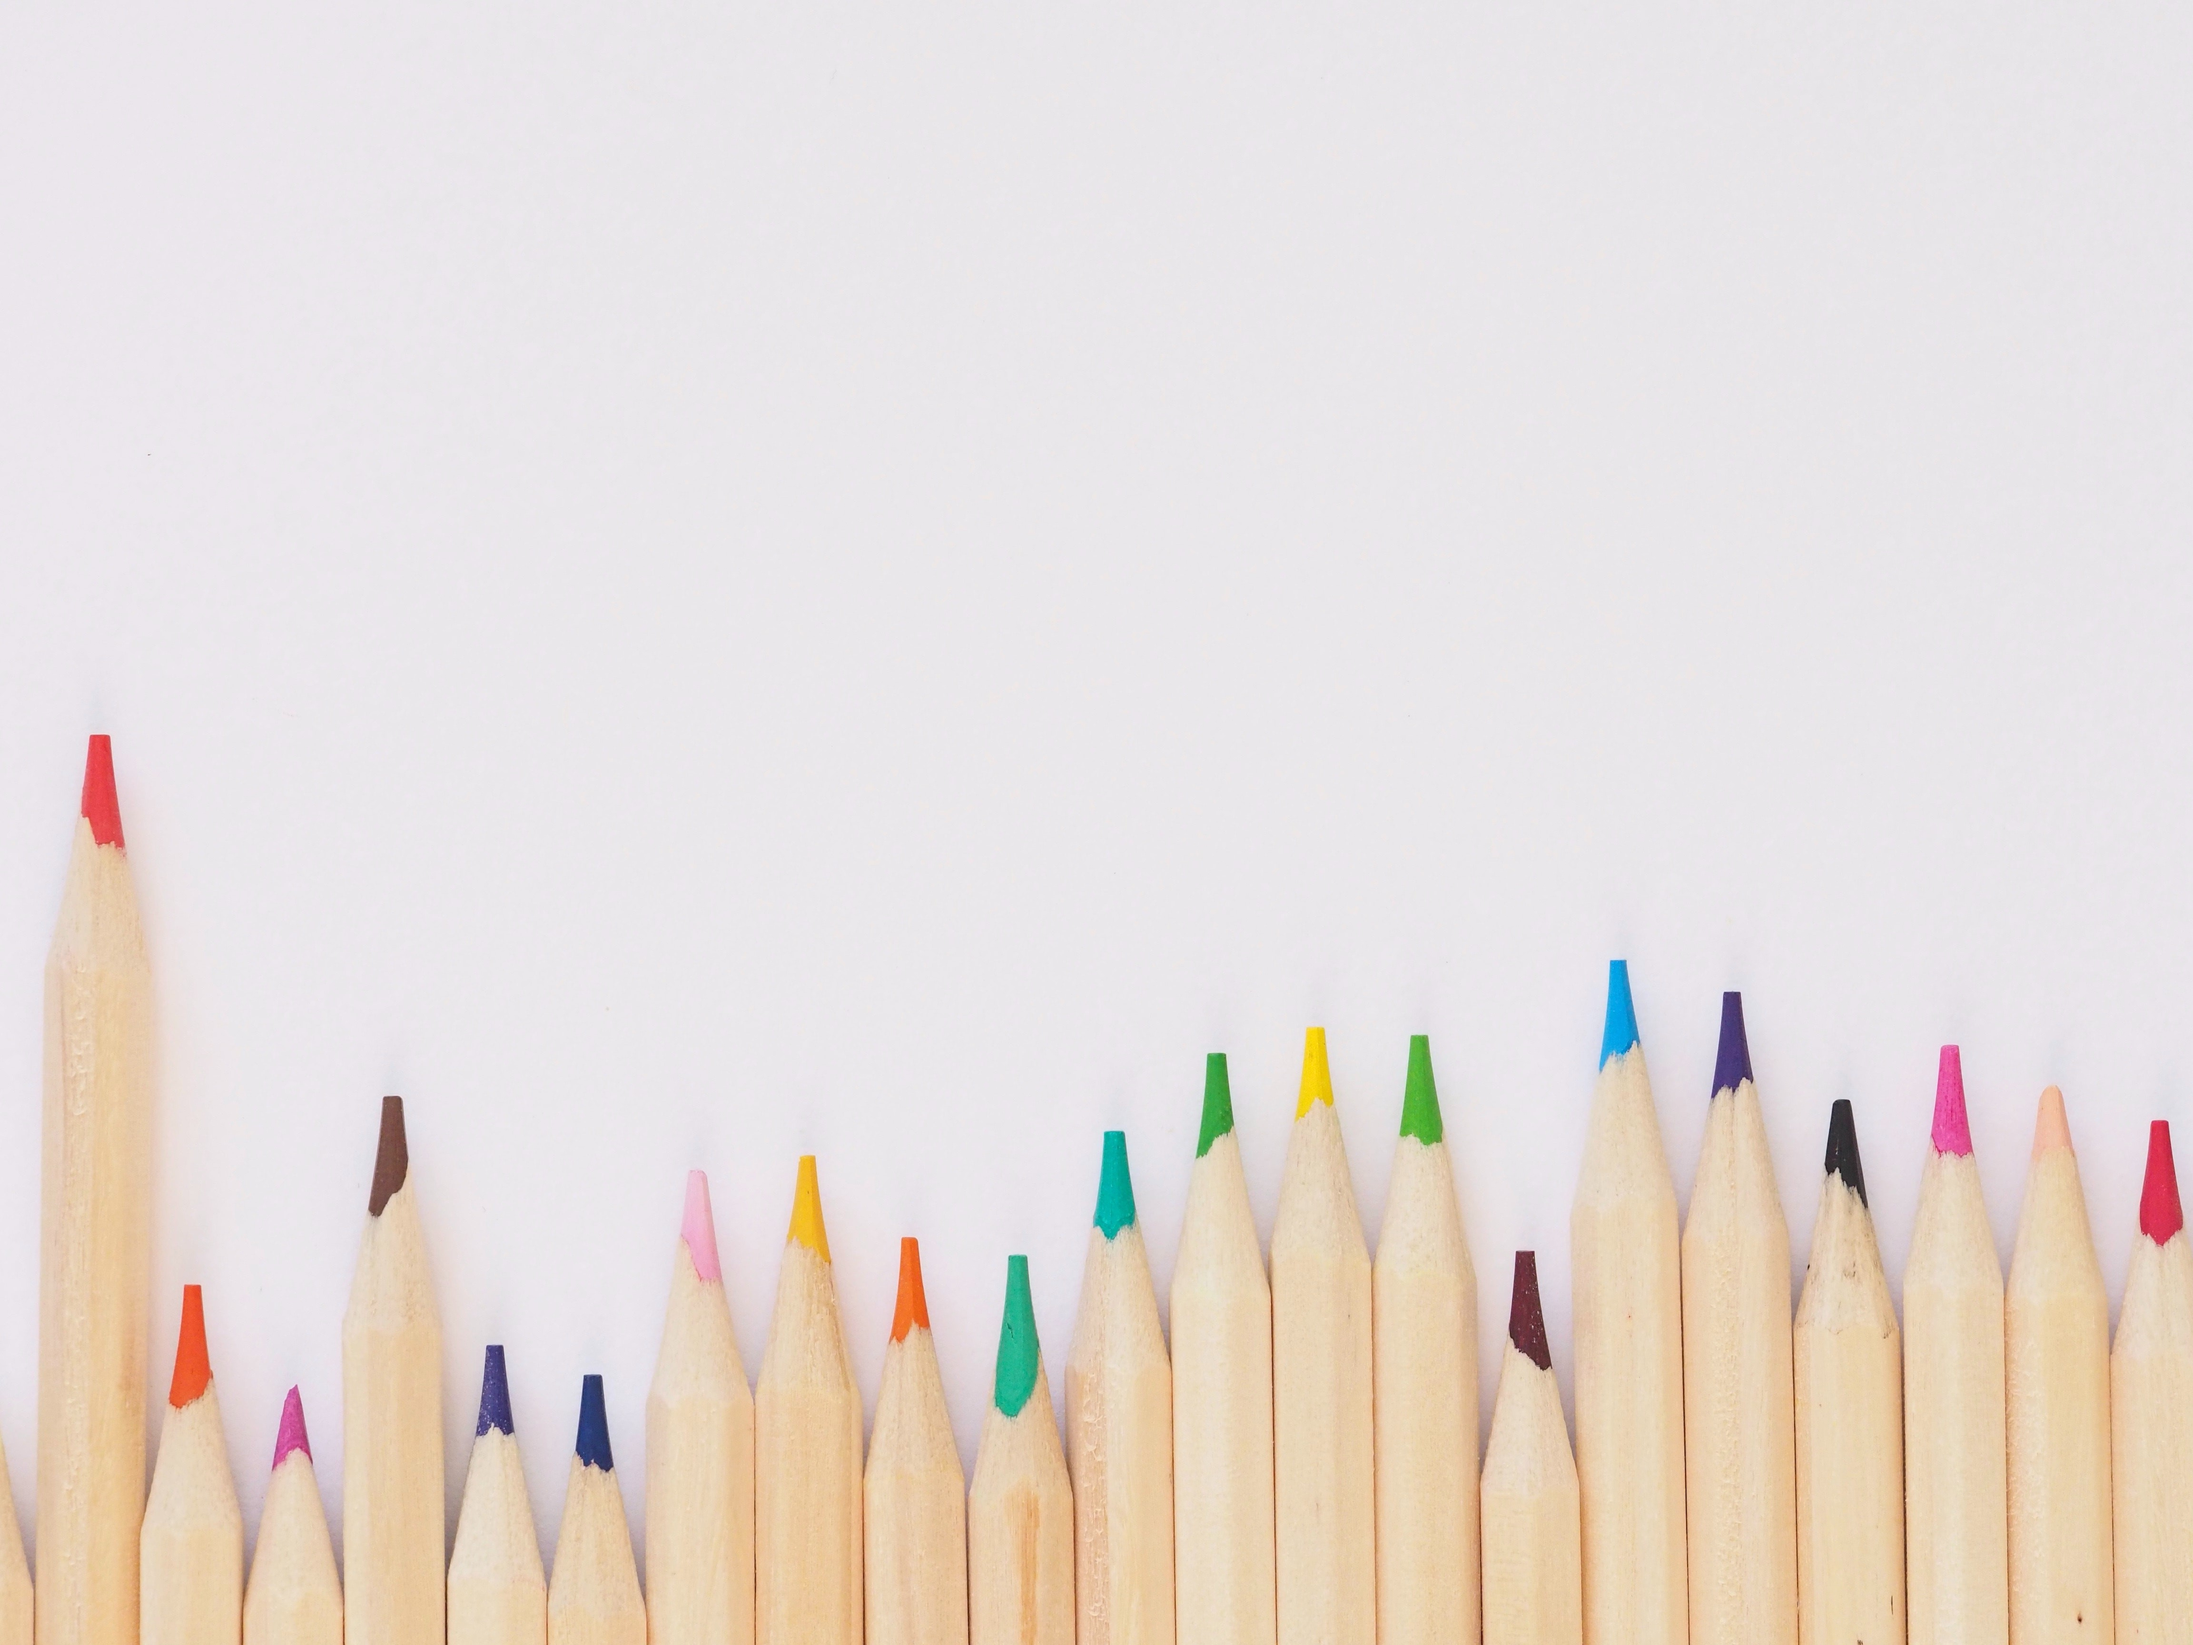
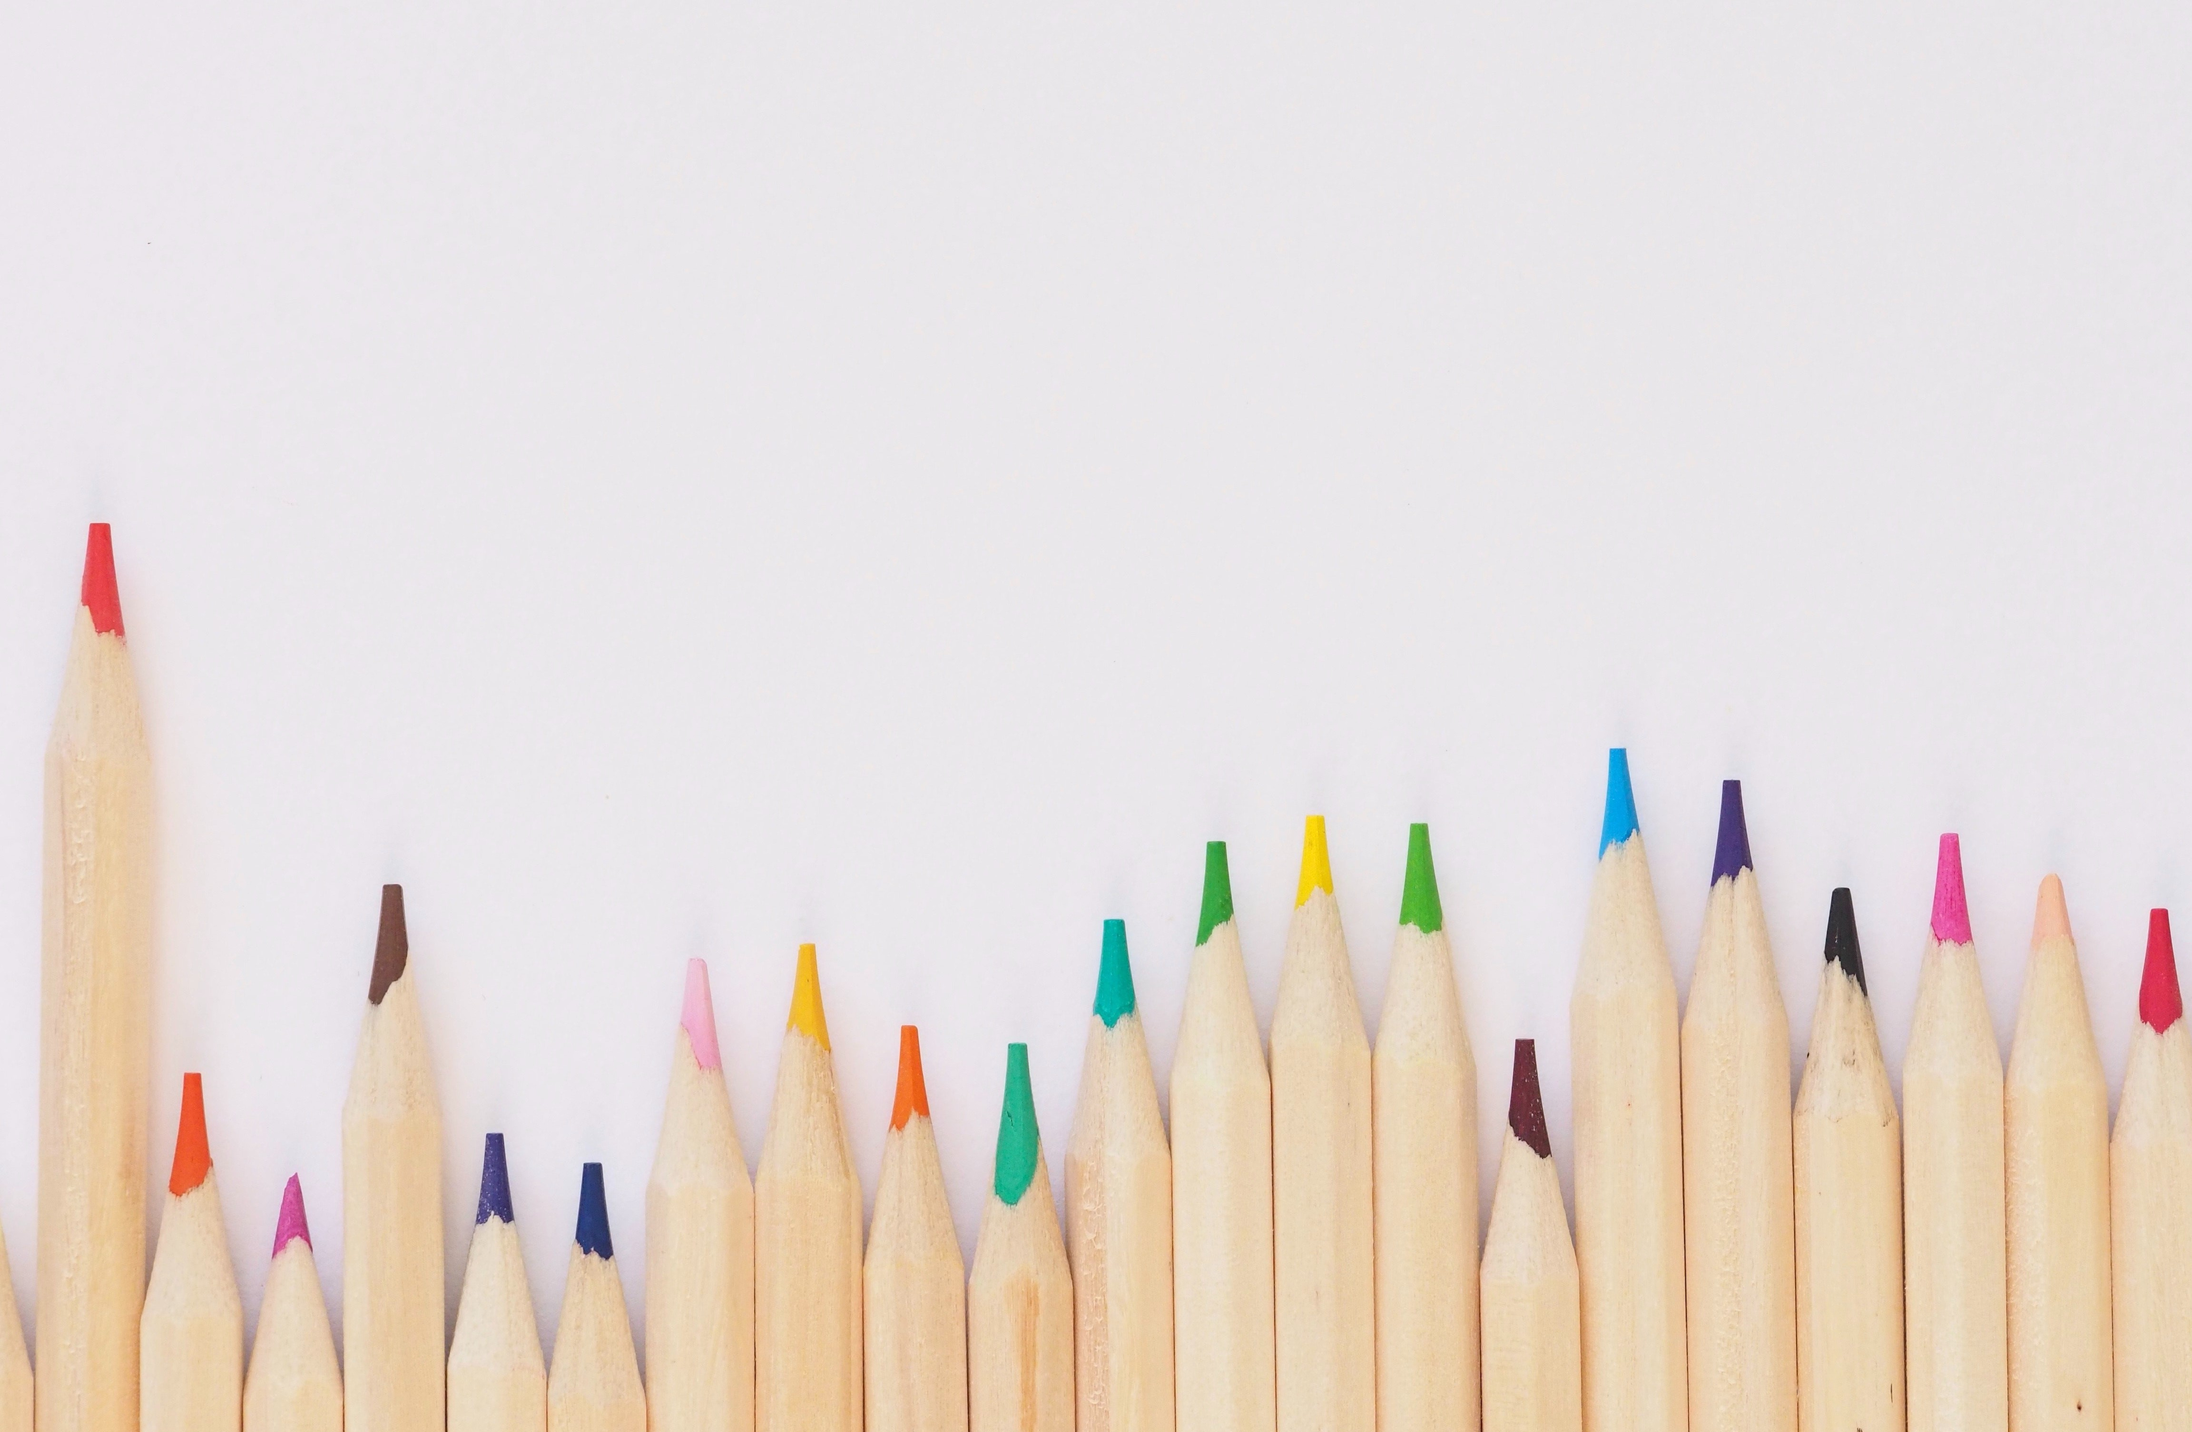
Finalização da seção sobre

diff --git a/Fase 01 - Web (Front End)/index.html b/Fase 01 - Web (Front End)/index.html
@@ -70,33 +70,69 @@
 				</div>
         
             </nav>
-
+            
         </header>
-
-        <!-- Hero -->
-        <section id="hero-principal">
-            <div class="container">
-                <div class="row">
-                    <div class="col-sm-4">
-                        <h1 class="titulo-principal">Todas as escolas em um só lugar.</h1>
-                    </div>
-                </div>
-                <div class="row">
-                    <div class="col-sm-6">
-                        <p class="paragrafo-principal">O sistema do Educa Brasil é especialista em te auxiliar a encontrar uma escola ideal para as suas necessidades.</p>
-                    </div>
-                </div>
-                <div class="row mt-5">
-                    <div class="col-sm-4 d-flex flex-column">
-                        <span for="btn-start">Vamos começar?</span>
-                        <input type="button" id="btn-start" value="Selecione um estado" class="mt-3">
-                    </div>
-                </div>
-            </div>
-        </section>
-
+        
         <!-- Main -->
         <main id="main-principal">
+            
+            <!-- Hero -->
+            <section id="hero-principal">
+                <div class="container">
+                    <div class="row">
+                        <div class="col-sm-4">
+                            <h1 class="titulo-principal">Todas as escolas em um só lugar.</h1>
+                        </div>
+                    </div>
+                    <div class="row">
+                        <div class="col-sm-6">
+                            <p class="paragrafo-principal">O sistema do Educa Brasil é especialista em te auxiliar a encontrar uma escola ideal para as suas necessidades.</p>
+                        </div>
+                    </div>
+                    <div class="row mt-5">
+                        <div class="col-sm-4 d-flex flex-column">
+                            <span for="btn-start">Vamos começar?</span>
+                            <input type="button" id="btn-start" value="Selecione um estado" class="mt-3">
+                        </div>
+                    </div>
+                </div>
+            </section>
+
+            <section id="sobre">
+
+                <div class="container">
+                    <div class="row justify-content-center">
+                        <div class="col-sm-6">
+                            <h1>Escolha a melhor escola à partir de dados do Censo Escolar do Inep</h1>
+                        </div>
+                    </div>
+                    <div class="row justify-content-center mt-2">
+                        <div class="col-sm-7">
+                            <p>Os dados do Educa Brasil vêm do Censo Escolar dos Microdados do Inep 2018 e abrangem diversas informações que permitem encontrar a melhor escola possível</p>
+                        </div>
+                    </div>
+                    <div class="row caracteristicas">
+
+                        <div class="col-sm-4">
+                            <div class="img rounded-circle situacao"></div>
+                            <ul>
+                                <li>Situação de Funcionamento</li>
+                                <li>(Em Atividade, Paralisada e Extinta)</li>
+                            </ul>
+                        </div>
+                        <div class="col-sm-4">
+                            <div class="img rounded-circle dependencias"></div>
+                            <p>Dependências da Escola</p>
+                        </div>
+                        <div class="col-sm-4">
+                            <div class="img rounded-circle ofertas-matricula"></div>
+                            <p>Ofertas de Matrícula</p>
+                        </div>
+
+                    </div>
+                </div>
+
+            </section>
 
         </main>
 

diff --git a/Fase 01 - Web (Front End)/css/educa_brasil.css b/Fase 01 - Web (Front End)/css/educa_brasil.css
@@ -84,9 +84,9 @@ html, body {
 
     /* Imagem */
     background-image: url(../img/fundos/fundo-lapis.jpg);
-    background-size: 100%;
+    background-size: cover;
     background-repeat: no-repeat;
-    background-position-y: -18rem;
+    background-position: center;
 }
 
 .titulo-principal {
@@ -115,4 +115,68 @@ html, body {
 #btn-start:hover {
     background-color: #9c9c9c;
     box-shadow: 1px 1px 1px 1px rgb(105, 105, 105);
+}
+
+
+/* =======================================================
+   SOBRE
+   ======================================================= */
+
+#sobre {
+    padding: 7rem !important;
+    text-align: center;   
+}
+#sobre h1 {
+    font-size: 27px;
+    color: #36923F;
+    font-weight: 500;
+}
+#sobre p {
+    font-size: 17px;
+}
+#sobre .img {
+    height: 174px;
+    width: 174px;
+}
+
+.situacao {
+    background-image: url(../img/sobre/situacoes.png);
+    background-size: 82%;
+    background-repeat: no-repeat;
+    background-position: center;
+    background-position-y: 28px;
+    background-color: #878787;
+}
+
+.dependencias {
+    background-image: url(../img/sobre/dependencias.png);
+    background-size: 140%;
+    background-repeat: no-repeat;
+    background-position: center;
+    background-position-x: -65px;
+}
+
+.ofertas-matricula {
+    background-image: url(../img/sobre/oferta.png);
+    background-size: 100%;
+    background-repeat: no-repeat;
+    background-position: center;
+    
+}
+
+.caracteristicas {
+    margin-top: 50px;
+}
+.caracteristicas ul li {
+    list-style-type: none;
+    padding: 0;
+}
+.caracteristicas ul {
+    font-size: 17px;
+}
+
+.rounded-circle{
+    margin-left: auto;
+    margin-right: auto;
+    margin-bottom: 20px;
 }
